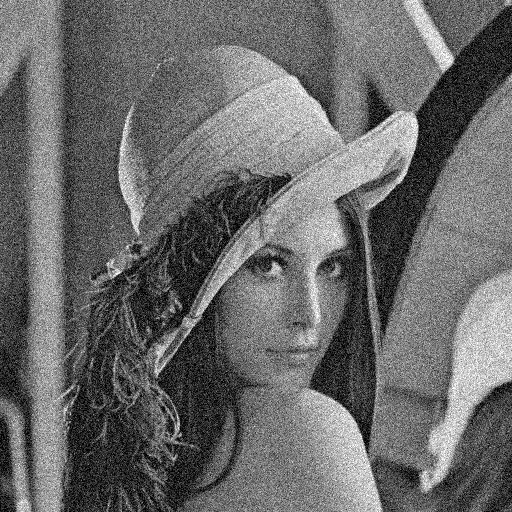
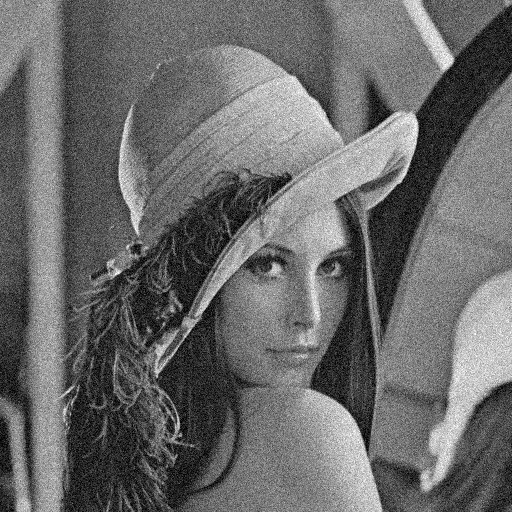
update

diff --git a/BM3D_step1_demo.py b/BM3D_step1_demo.py
@@ -10,7 +10,7 @@ Threshold_Hard3D = 2.7*sigma           # Threshold for Hard Thresholding
 First_Match_threshold = 2500             # 用于计算block之间相似度的阈值
 Step1_max_matched_cnt = 16              # 组最大匹配的块数
 Step1_Blk_Size = 8                     # block_Size即块的大小，8*8
-Step1_Blk_Step = 3                      # Rather than sliding by one pixel to every next reference block, use a step of Nstep pixels in both horizontal and vertical directions.
+Step1_Blk_Step = 3                    # Rather than sliding by one pixel to every next reference block, use a step of Nstep pixels in both horizontal and vertical directions.
 Step1_Search_Step = 3                   # 块的搜索step
 Step1_Search_Window = 39                # Search for candidate matching blocks in a local neighborhood of restricted size NS*NS centered
 Beta_Kaiser = 2.0
@@ -181,6 +181,7 @@ def BM3D_1st_step(_noisyImg):
 
     # 开始逐block的处理,+2是为了避免边缘上不够
     for i in range(int(Width_num+2)):
+        print("step1 line:", i)
         for j in range(int(Height_num+2)):
             # m_blockPoint当前参考图像的顶点
             m_blockPoint = Locate_blk(i, j, blk_step, block_Size, width, height)       # 该函数用于保证当前的blk不超出图像范围
@@ -191,4 +192,4 @@ def BM3D_1st_step(_noisyImg):
     basic = numpy.matrix(Basic_img, dtype=int)
     basic.astype(numpy.uint8)
 
-    cv2.imwrite("BM3D_step1.jpg", basic)
+    cv2.imwrite("BM3D_step1_demo.jpg", basic)

diff --git a/BM3D_step2_demo.py b/BM3D_step2_demo.py
@@ -5,7 +5,7 @@ import numpy
 cv2.setUseOptimized(True)
 
 # Parameters initialization
-sigma = 25
+sigma = 2.5
 
 Second_Match_threshold = 400           # 用于计算block之间相似度的阈值
 Step2_max_matched_cnt = 32
@@ -152,6 +152,7 @@ def Step2_3DFiltering(_Similar_Bscs, _Similar_Imgs):
     Wiener_wight = numpy.zeros((m_Shape[1], m_Shape[2]), dtype=float)
 
     for i in range(m_Shape[1]):
+        
         for j in range(m_Shape[2]):
             tem_vector = _Similar_Bscs[:, i, j]
             tem_Vct_Trans = numpy.matrix(cv2.dct(tem_vector))
@@ -197,7 +198,7 @@ def BM3D_2nd_step(_basicImg, _noisyImg):
     m_img, m_Wight, m_Kaiser = init(_noisyImg, block_Size, Beta_Kaiser)
 
     for i in range(int(Width_num+2)):
-        print("processing line:", i)
+        print("step2 line:", i)
         for j in range(int(Height_num+2)):
             m_blockPoint = Locate_blk(i, j, blk_step, block_Size, width, height)
             Similar_Blks, Similar_Imgs, Positions, Count = Step2_fast_match(_basicImg, _noisyImg, m_blockPoint)

diff --git a/BM3D_main.py b/BM3D_main.py
@@ -11,10 +11,10 @@ import skimage
 def main():
 
 	filename = 'lena.jpg'
-	noise_mode = 'gaussian'
+	noise_mode = 's&p'
 
 	origin_image = cv2.imread(filename, cv2.IMREAD_GRAYSCALE)
-	noise_image = skimage.util.random_noise(origin_image/256.0, mode=noise_mode)
+	noise_image = skimage.util.random_noise(origin_image/256.0, mode=noise_mode)#var=0.005
 
 	if os.path.exists(noise_mode+'.jpg'):
 		noise_image = cv2.imread(noise_mode+'.jpg', cv2.IMREAD_GRAYSCALE)
@@ -31,9 +31,9 @@ def main():
 	BM3D_1st_step(noise_image)
 
 	print("Block Matching 3D Step 2:")
-	image = cv2.imread("BM3D_step1.jpg", cv2.IMREAD_GRAYSCALE)
+	image = cv2.imread("BM3D_step1_demo.jpg", cv2.IMREAD_GRAYSCALE)
 	# BM3D_2nd_step(image, noise_image)
-	BM3D_step2(image, noise_image)
+	BM3D_2nd_step(image, noise_image)
 
 if __name__ == '__main__':
 	main()
